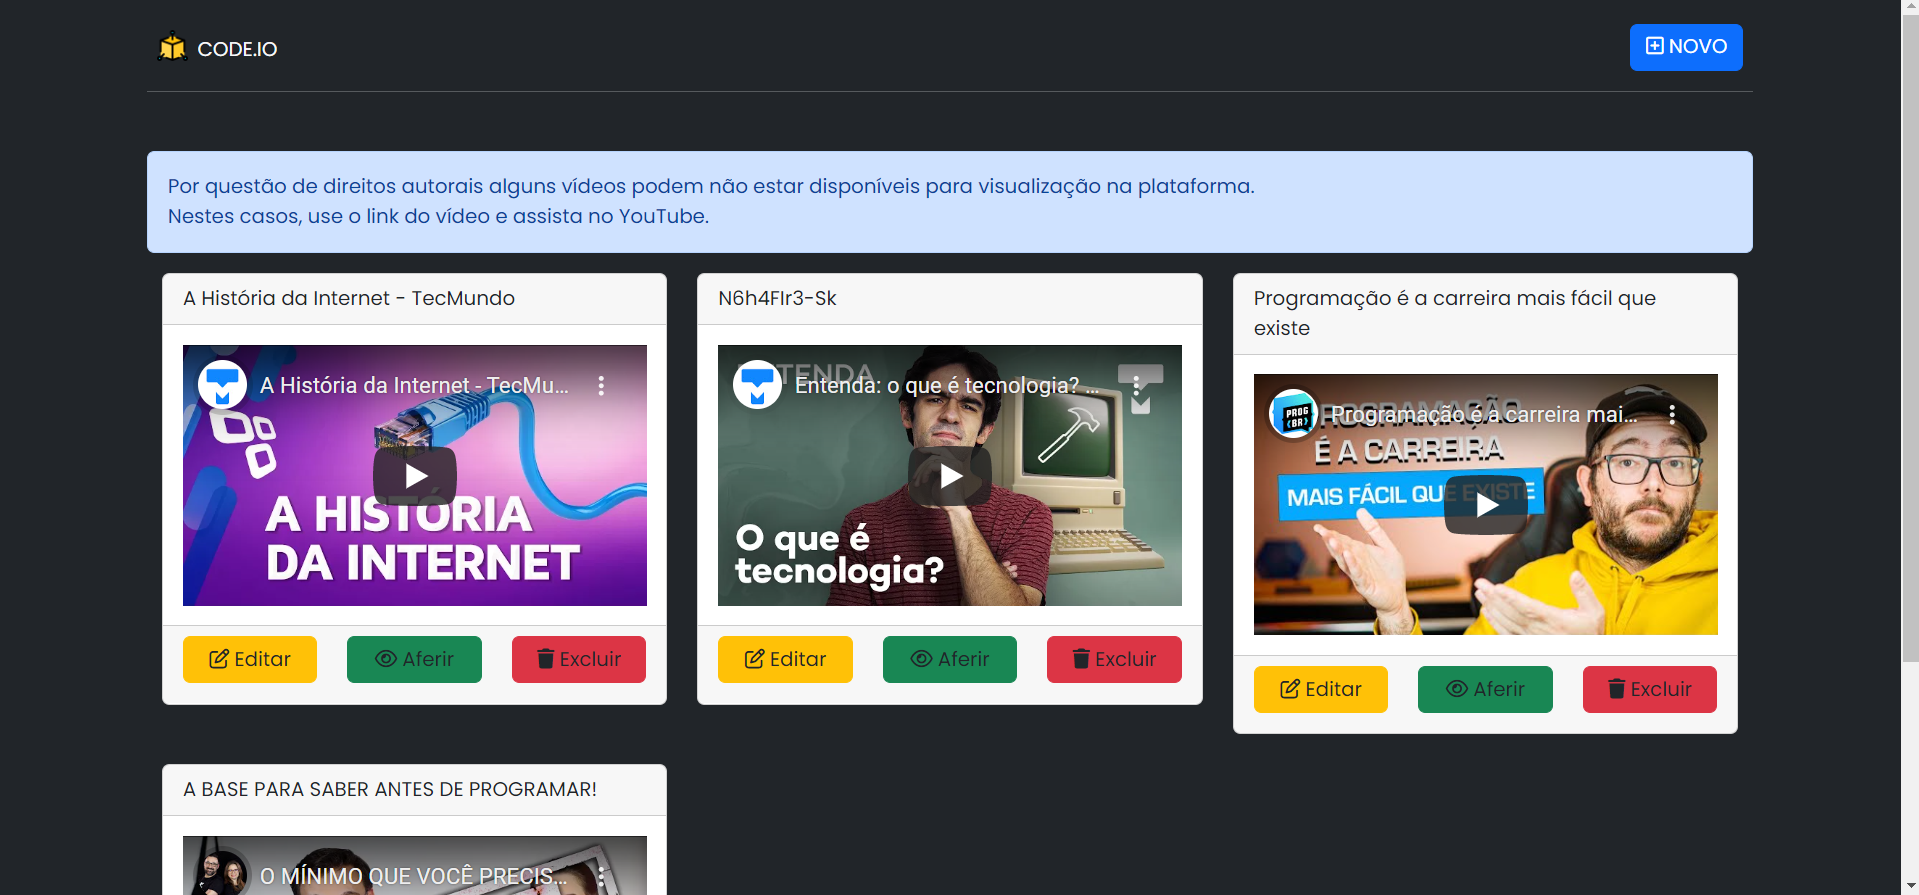
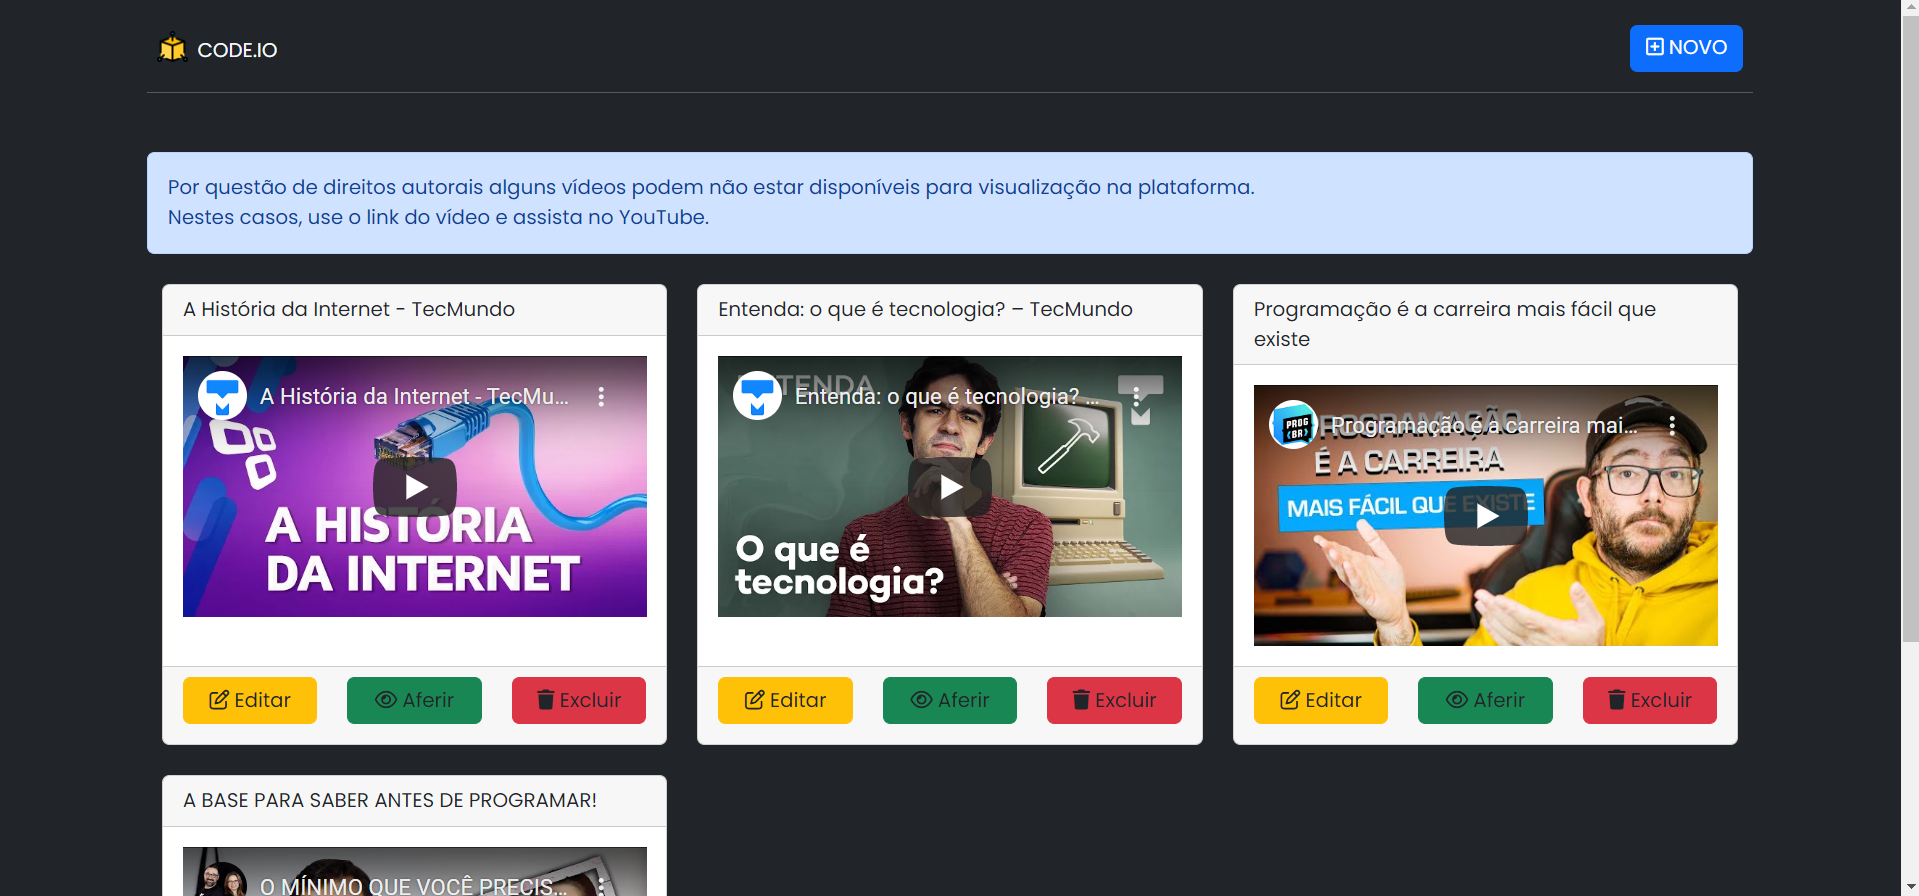
ajusta tamanho dos cards

diff --git a/public/js/script.js b/public/js/script.js
@@ -48,7 +48,7 @@ function criarCards(videos) {
     // Criando um card para cada vídeo cadastrado:
     for (var video of videos) {
         cardGroup += `<div class="col">
-            <div class="card">
+            <div class="card h-100">
                 <div class="card-header">${video.titulo}</div>
                 <div class="card-body">
                     <div class="videoWrapper">
